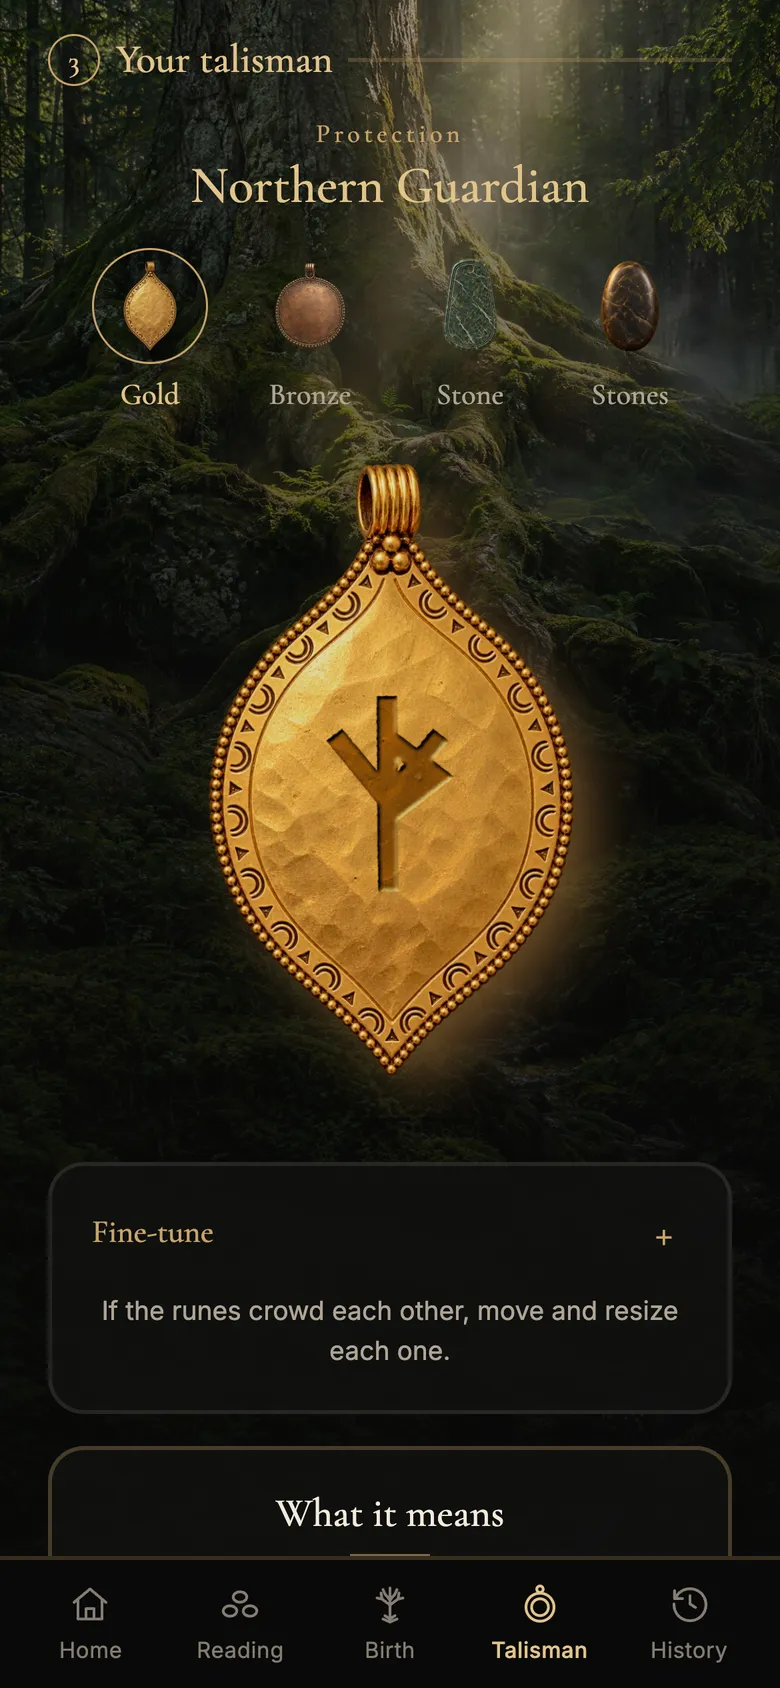
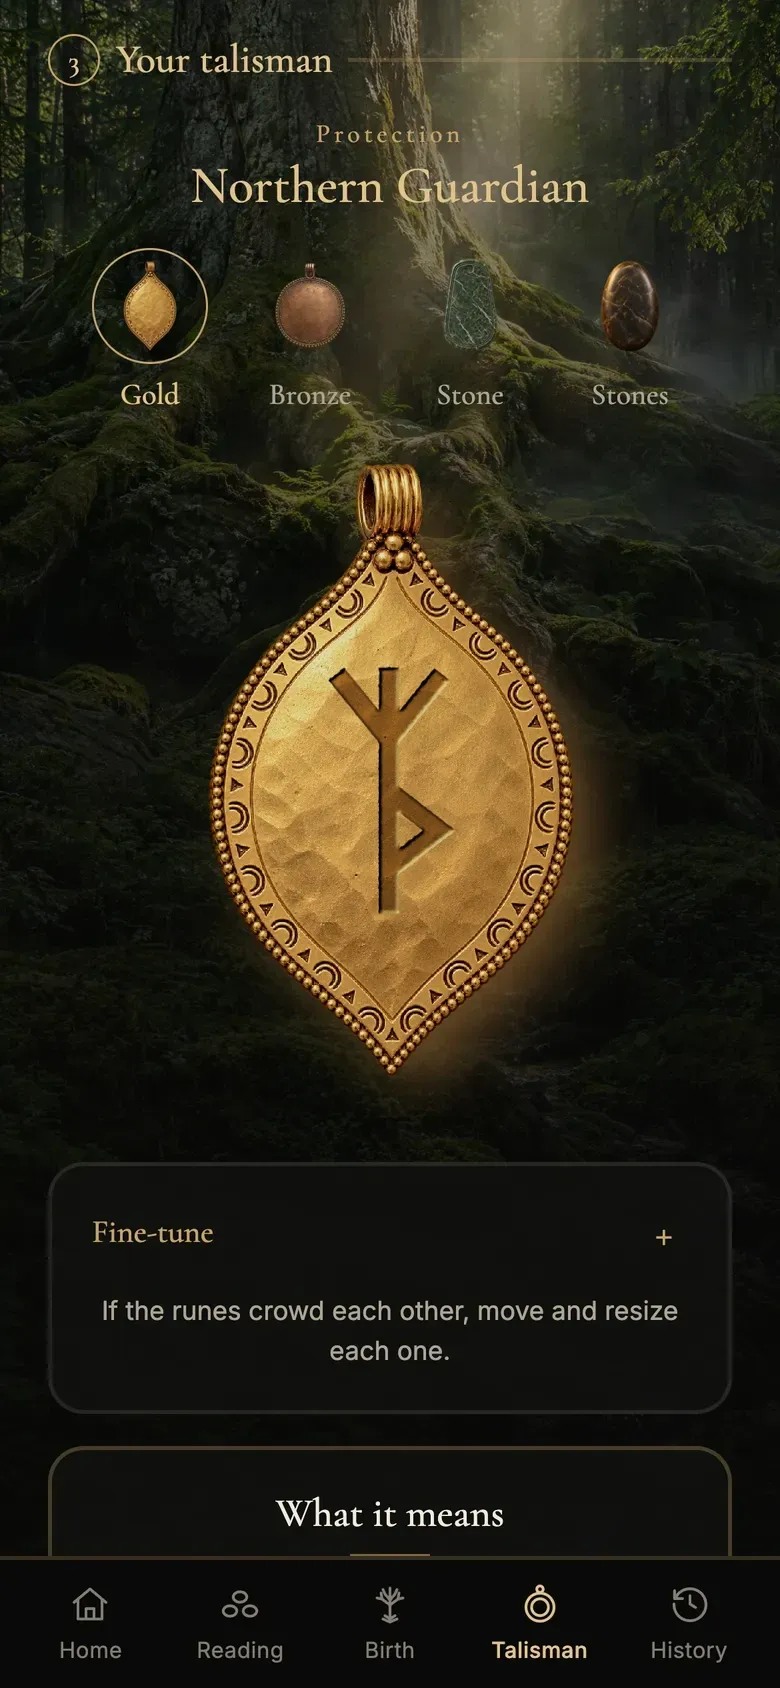
Site: the talisman screenshot shows the pendant with its runes apart
Only the pendant is replaced, cut from the user's saved wallpaper (Kuzey
Muhafızı with Algiz and Thurisaz apart), scaled onto the old one and masked
with the app's gold-leaf silhouette; the rest of the screen is unchanged.

Claude-Session: https://claude.ai/code/session_01TyNZcB4dmfjkakMr8btNwp

Changed region(s): [[0.2462, 0.2773, 0.7385, 0.6469]]

diff --git a/CLAUDE.md b/CLAUDE.md
@@ -32,6 +32,11 @@ diğerleri `/` İngilizce, elle seçim hatırlanır).
   780 px WebP). Üretimi: mobil repoda Expo web önizlemesi açıkken (`npx expo start`, port 8081)
   `node scripts/shots/run.mjs tr|en` (headless Chrome, 390×844 @3x PNG, `scripts/shots/out/`), sonra
   `npm run images -- scripts/shots/out`.
+- **Tılsım ekran görüntüsünde kolye değişti (2026-10-07, kullanıcı: "tılsım birbirinin içine geçmiş"):** Kuzey Muhafızı'nın
+  eski yerleşiminde Thurisaz Algiz'in kollarına biniyordu. Yalnız kolye, kullanıcının telefonda kaydettiği duvar
+  kâğıdından (rune'lar ayrık) kesilip ölçülerek aynı yere kondu; kenarı uygulamanın `gold-leaf.webp` siluetiyle
+  maskelendi, çevresi (orman, başlık, seçici, hare) aynen. Ekran yeniden çekilirse bu gerekmez: uygulamadaki
+  niyet yerleşimleri artık düzeltilmiş.
 - Arka planlar `src/assets/bg/` (altar-wide, aurora-wide, forest-wide, ritual-tall), mobil repodaki
   görsellerden.
 
